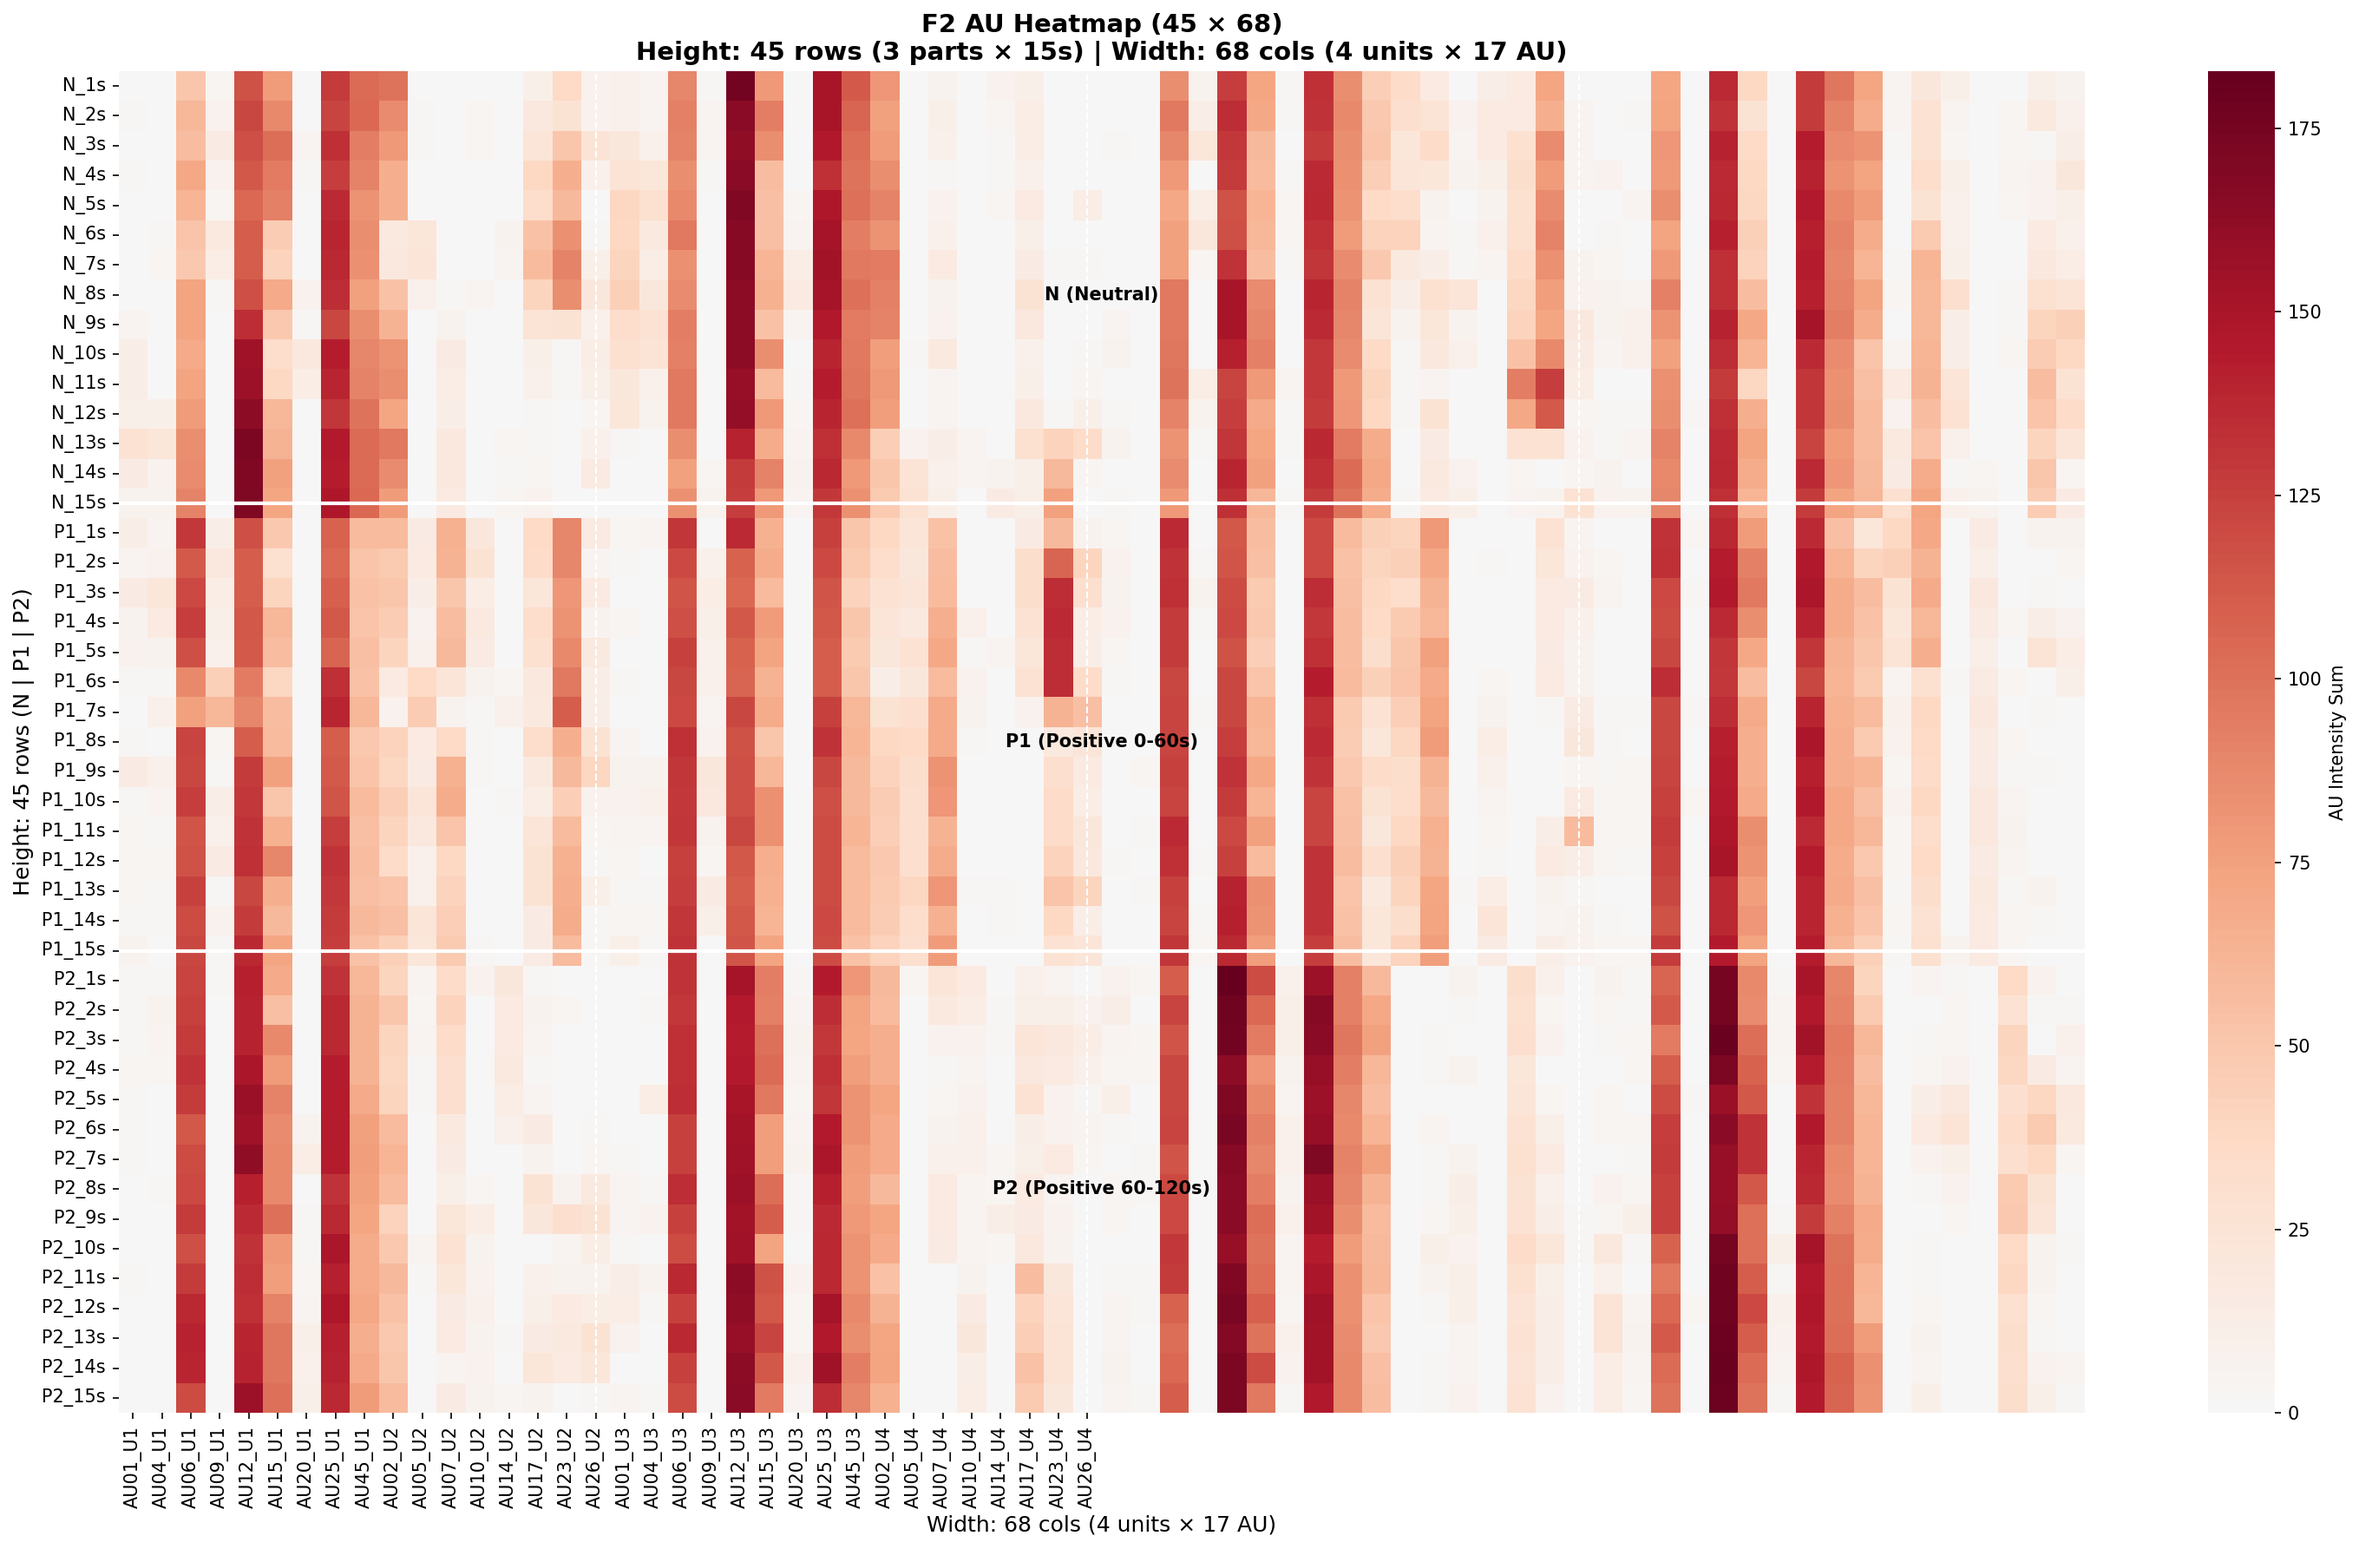
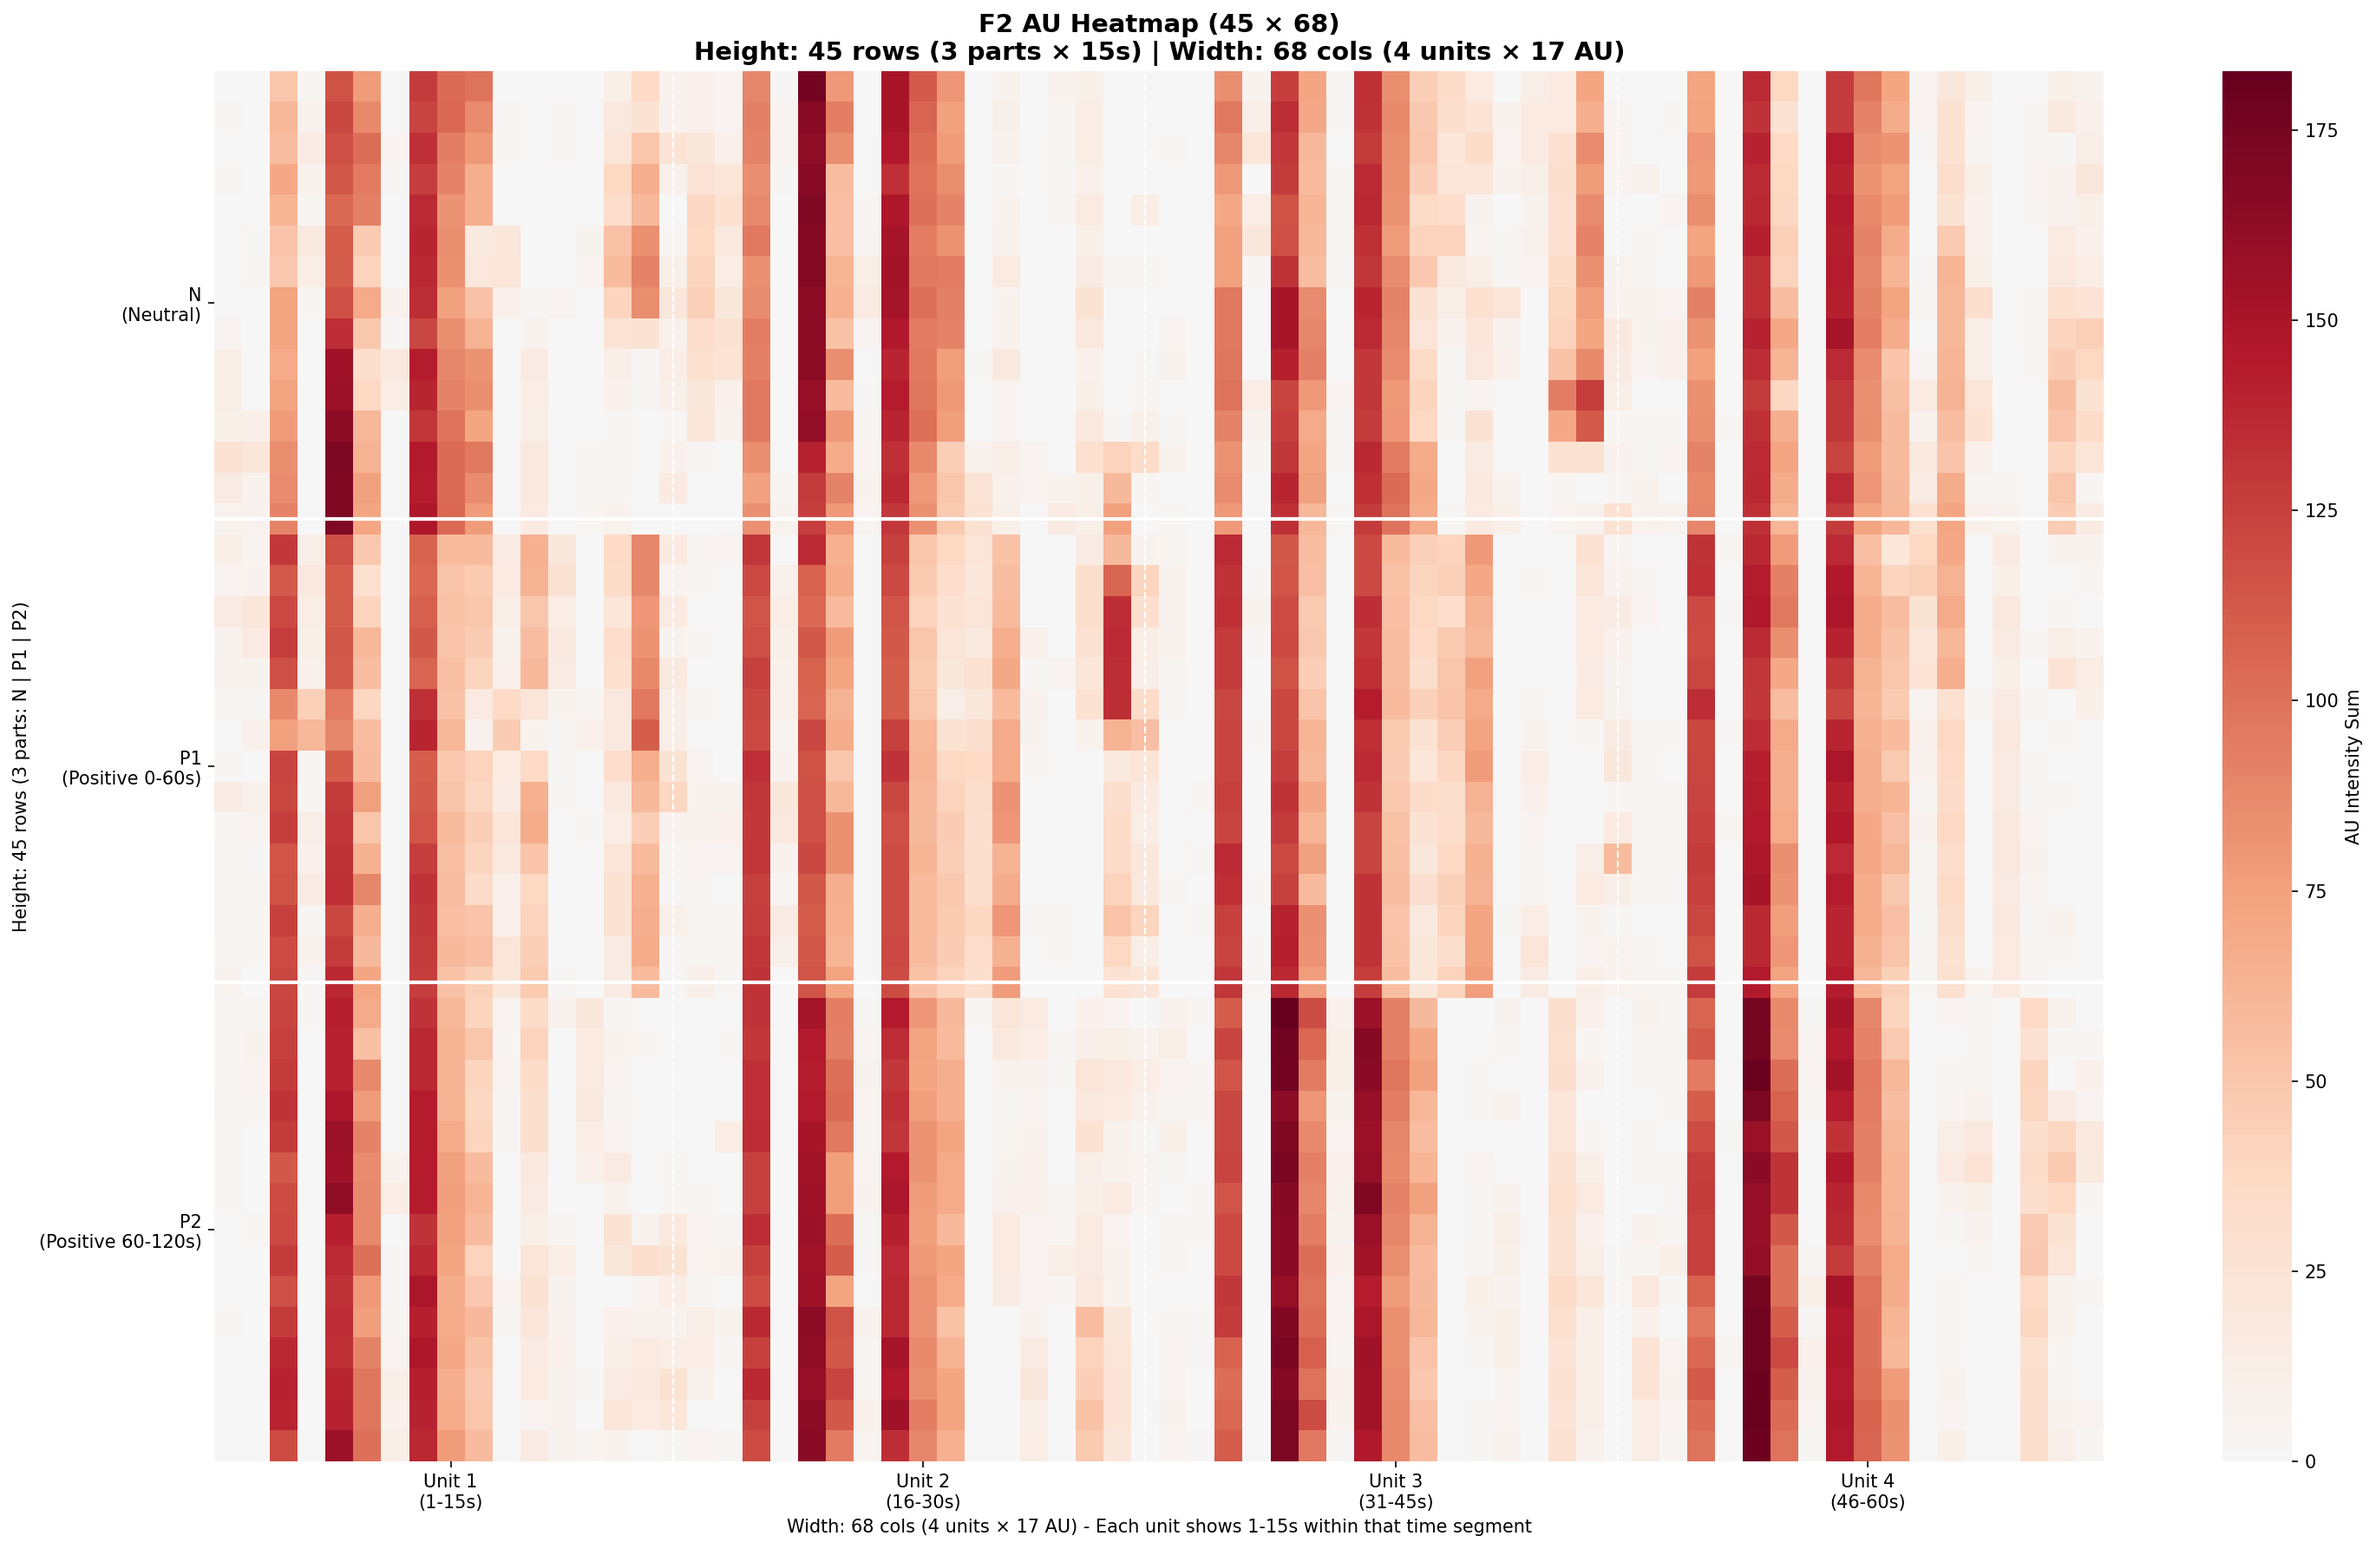
fix: 修正热力图刻度标签，使其与4个单元和3个部分对齐

diff --git a/scripts/generate_F2_heatmap_v6.py b/scripts/generate_F2_heatmap_v6.py
@@ -151,15 +151,29 @@ def main():
     sns.heatmap(final_heatmap, 
                 cmap='RdBu_r',
                 center=0,
-                xticklabels=col_labels[::2],
-                yticklabels=row_labels,
+                xticklabels=False,  # 关闭默认x轴标签
+                yticklabels=False,  # 关闭默认y轴标签
                 cbar_kws={'label': 'AU Intensity Sum'},
                 ax=ax)
     
+    # 设置x轴刻度：在每个单元的中心显示标签
+    # 4个单元，每单元17列，中心位置：8.5, 25.5, 42.5, 59.5
+    unit_centers = [8.5, 25.5, 42.5, 59.5]
+    unit_labels = ['Unit 1\n(1-15s)', 'Unit 2\n(16-30s)', 'Unit 3\n(31-45s)', 'Unit 4\n(46-60s)']
+    ax.set_xticks(unit_centers)
+    ax.set_xticklabels(unit_labels, fontsize=10)
+    
+    # 设置y轴刻度：在每个部分的中心显示标签
+    # 3个部分，每部分15行，中心位置：7.5, 22.5, 37.5
+    part_centers = [7.5, 22.5, 37.5]
+    part_labels = ['N\n(Neutral)', 'P1\n(Positive 0-60s)', 'P2\n(Positive 60-120s)']
+    ax.set_yticks(part_centers)
+    ax.set_yticklabels(part_labels, fontsize=10, rotation=0)
+    
     ax.set_title('F2 AU Heatmap (45 × 68)\nHeight: 45 rows (3 parts × 15s) | Width: 68 cols (4 units × 17 AU)', 
                  fontsize=14, fontweight='bold')
-    ax.set_xlabel('Width: 68 cols (4 units × 17 AU)', fontsize=12)
-    ax.set_ylabel('Height: 45 rows (N | P1 | P2)', fontsize=12)
+    ax.set_xlabel('Width: 68 cols (4 units × 17 AU) - Each unit shows 1-15s within that time segment', fontsize=10)
+    ax.set_ylabel('Height: 45 rows (3 parts: N | P1 | P2)', fontsize=10)
     
     # 水平白线：分隔 F2_中性 | F2_积极前60秒 | F2_积极后60秒（在行边界）
     # 行0-14是N，行15-29是P1，行30-44是P2
@@ -172,11 +186,6 @@ def main():
     # 分隔线在列的边界：16.5, 33.5, 50.5
     for x in [16.5, 33.5, 50.5]:
         ax.axvline(x=x, color='white', linewidth=1, linestyle='--')
-    
-    # 添加标签说明
-    ax.text(34, 7.5, 'N (Neutral)', ha='center', va='center', fontsize=10, color='black', fontweight='bold')
-    ax.text(34, 22.5, 'P1 (Positive 0-60s)', ha='center', va='center', fontsize=10, color='black', fontweight='bold')
-    ax.text(34, 37.5, 'P2 (Positive 60-120s)', ha='center', va='center', fontsize=10, color='black', fontweight='bold')
     
     plt.tight_layout()
     
